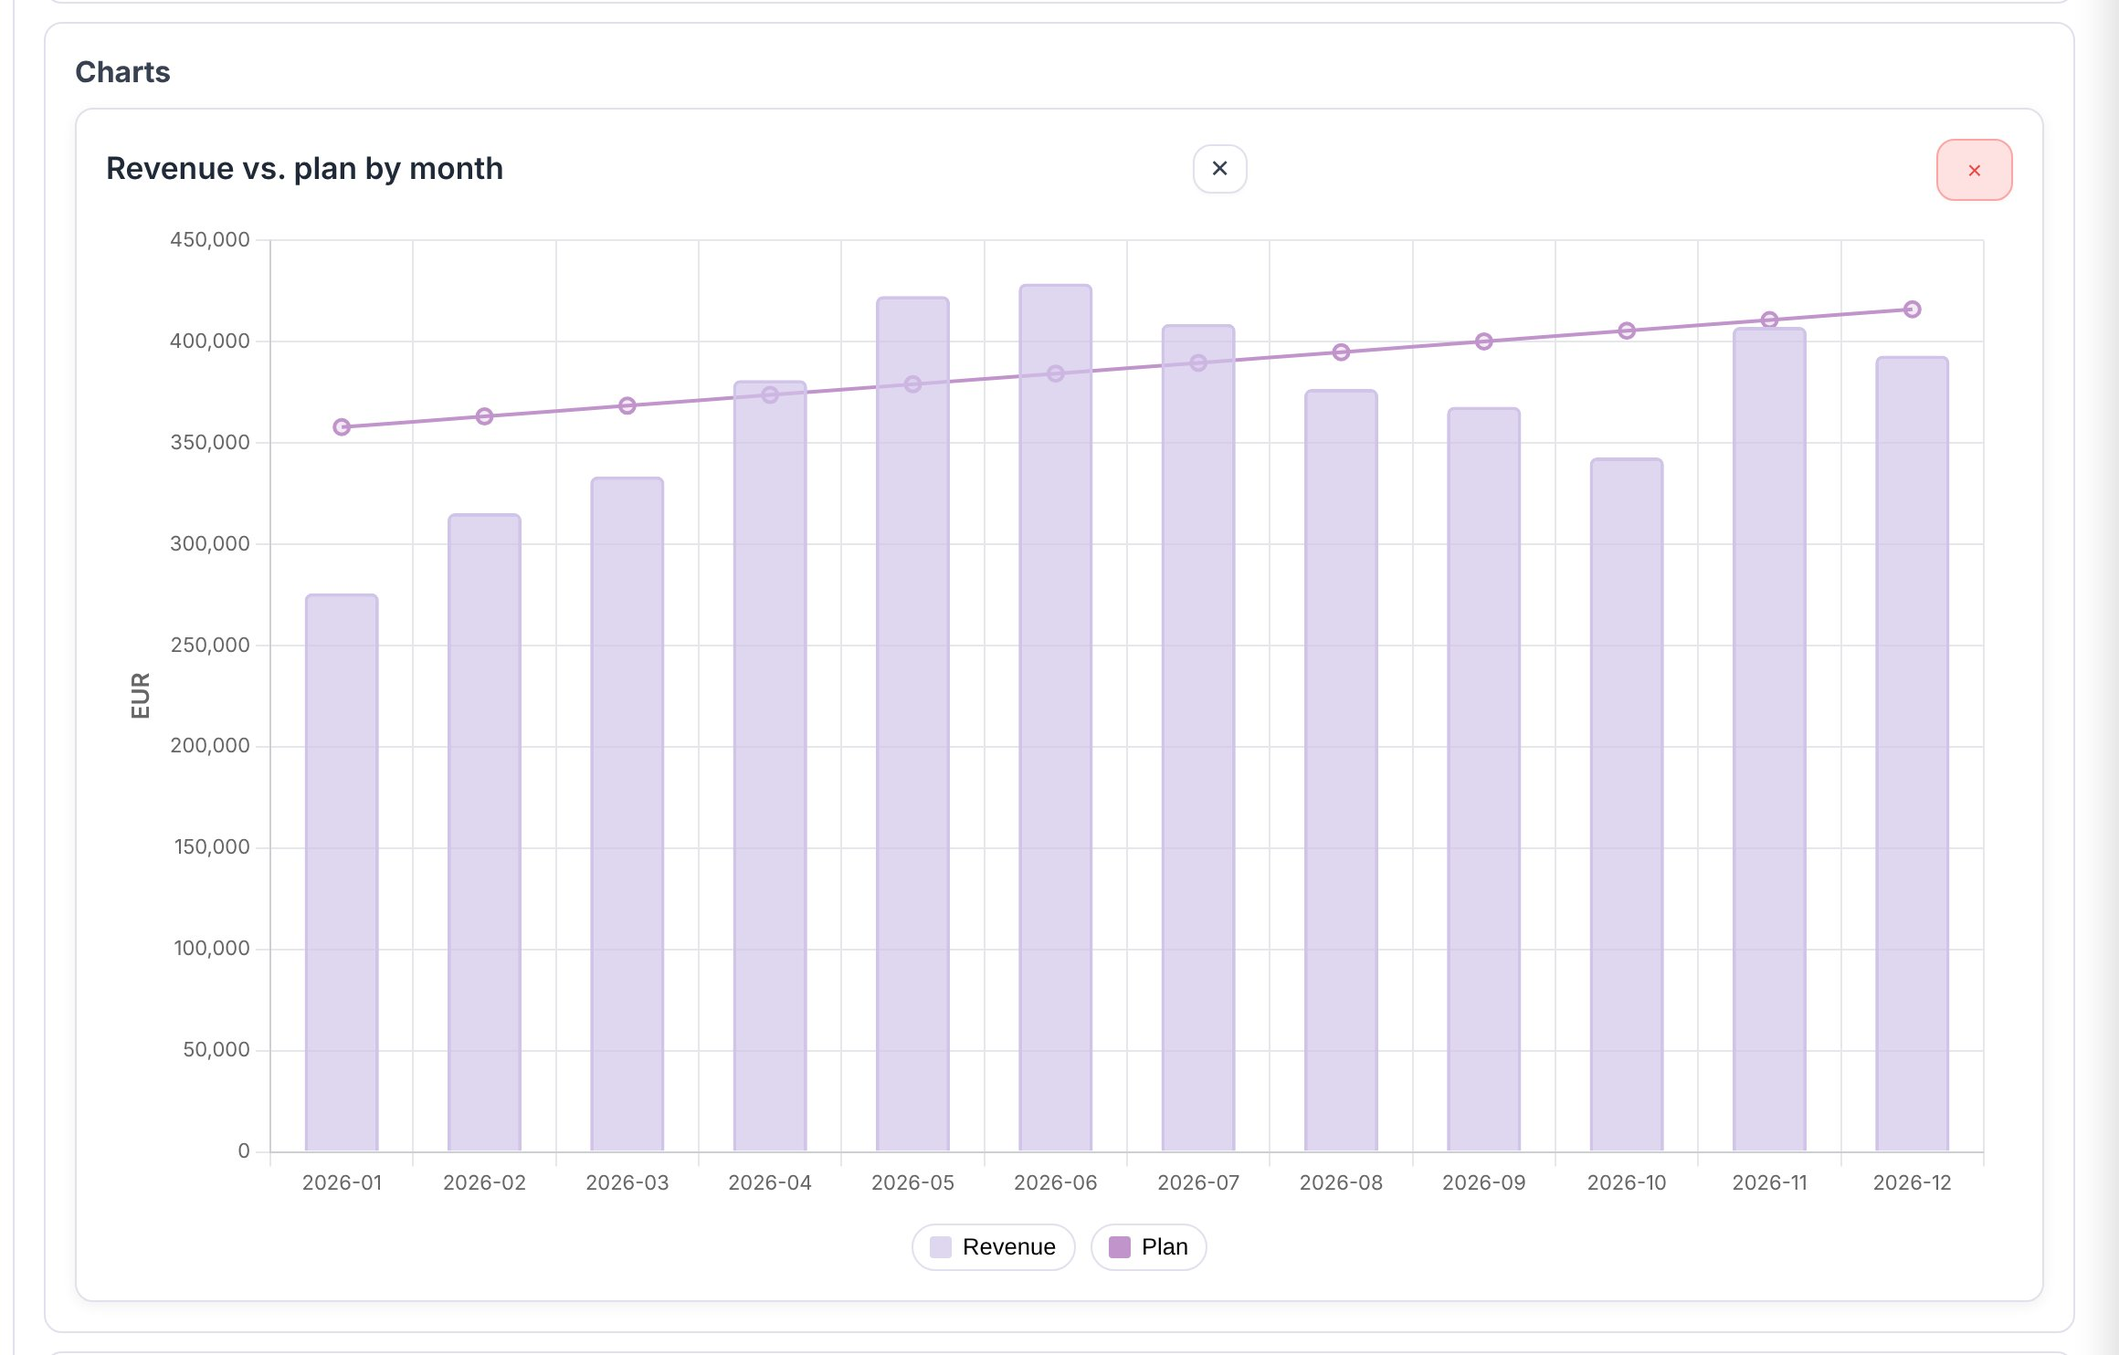
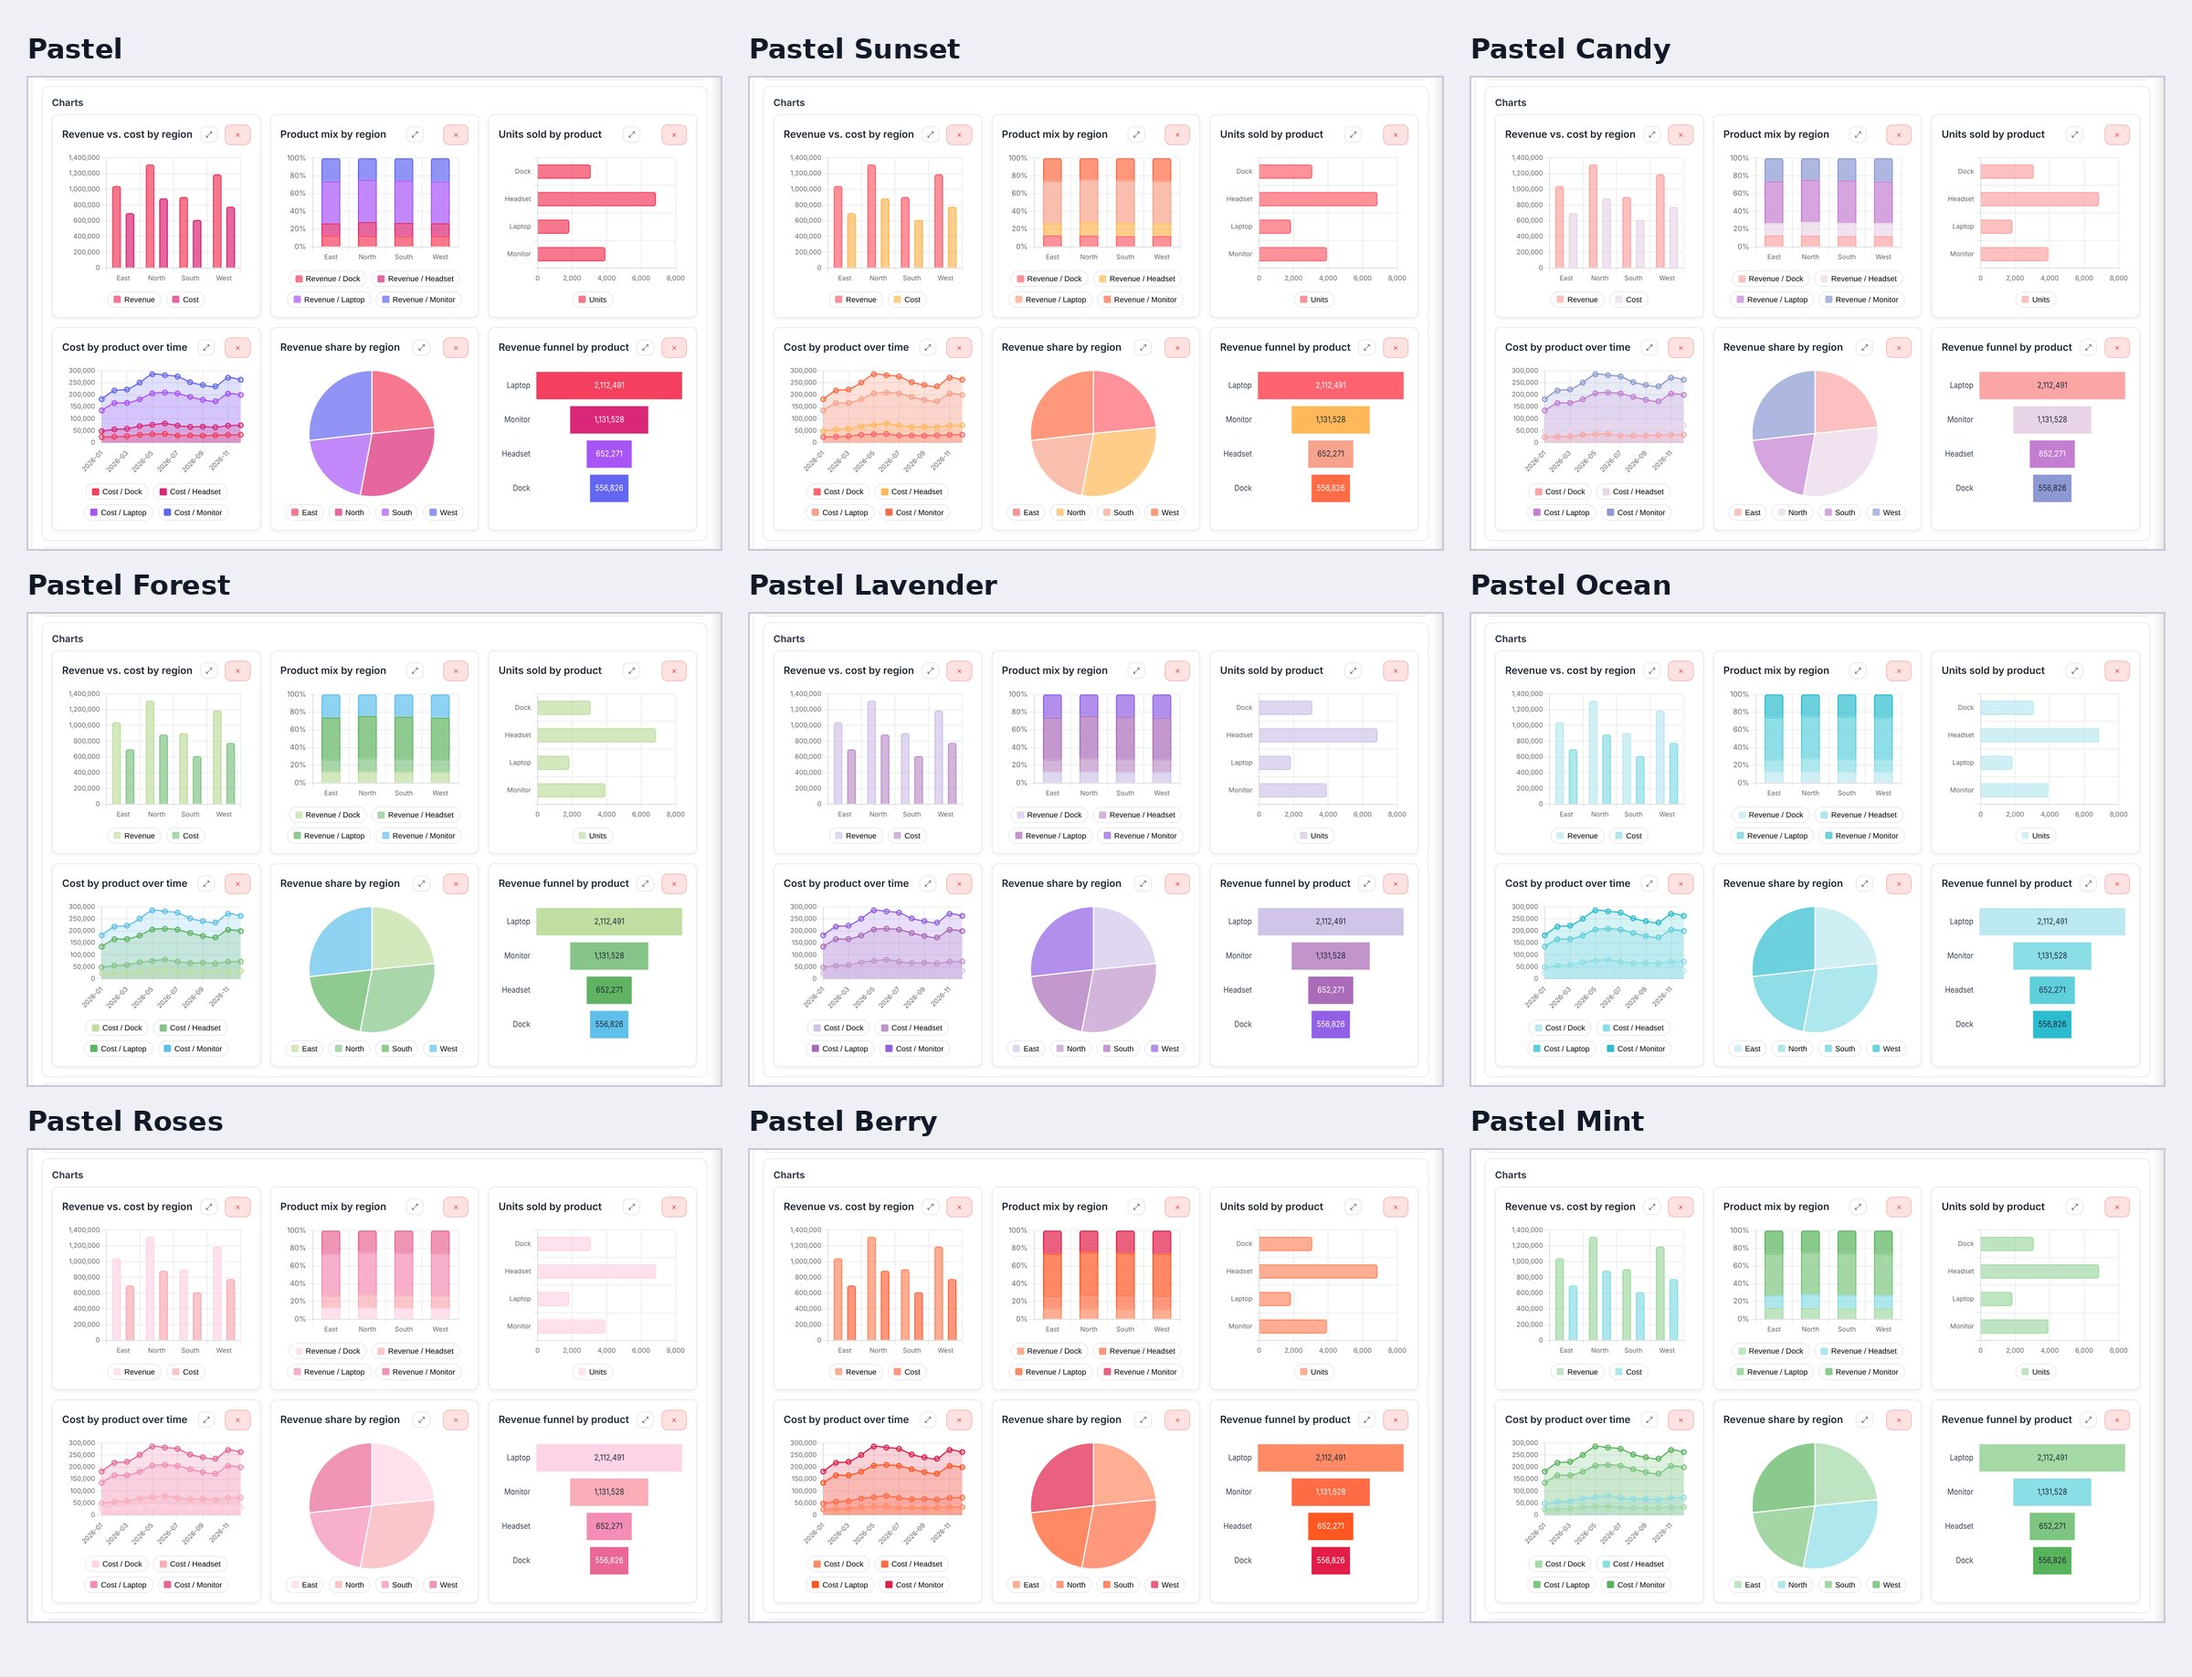
Initial commit

diff --git a/README.md b/README.md
@@ -199,14 +199,12 @@ Chart.js and jsPDF are served from `src/web/static/vendor` (see the README there
 
 ![Sales dashboard: KPI cards, bar + line combination, stacked bar, doughnut and multi-line chart](img/screen9.jpg)
 
-![Combined chart: revenue as bars and plan as a line, expanded](img/screen10.jpg)
+![Chart types: grouped bar, 100 % stacked bar, horizontal bar, stacked area, pie and funnel](img/screen10.jpg)
 
-![Chart types: grouped bar, 100 % stacked bar, horizontal bar, stacked area, pie and funnel](img/screen11.jpg)
+![Chart settings: one series rendered as bars, another as a line](img/screen11.jpg)
 
-![Chart settings: one series rendered as bars, another as a line](img/screen12.jpg)
+![Chart description with the automatic "Where the data comes from" section](img/screen12.jpg)
 
-![Chart description with the automatic "Where the data comes from" section](img/screen13.jpg)
-
-![Editing a chart description: formatting, links, highlight and column references](img/screen14.jpg)
+![Editing a chart description: formatting, links, highlight and column references](img/screen13.jpg)
 
 ---
